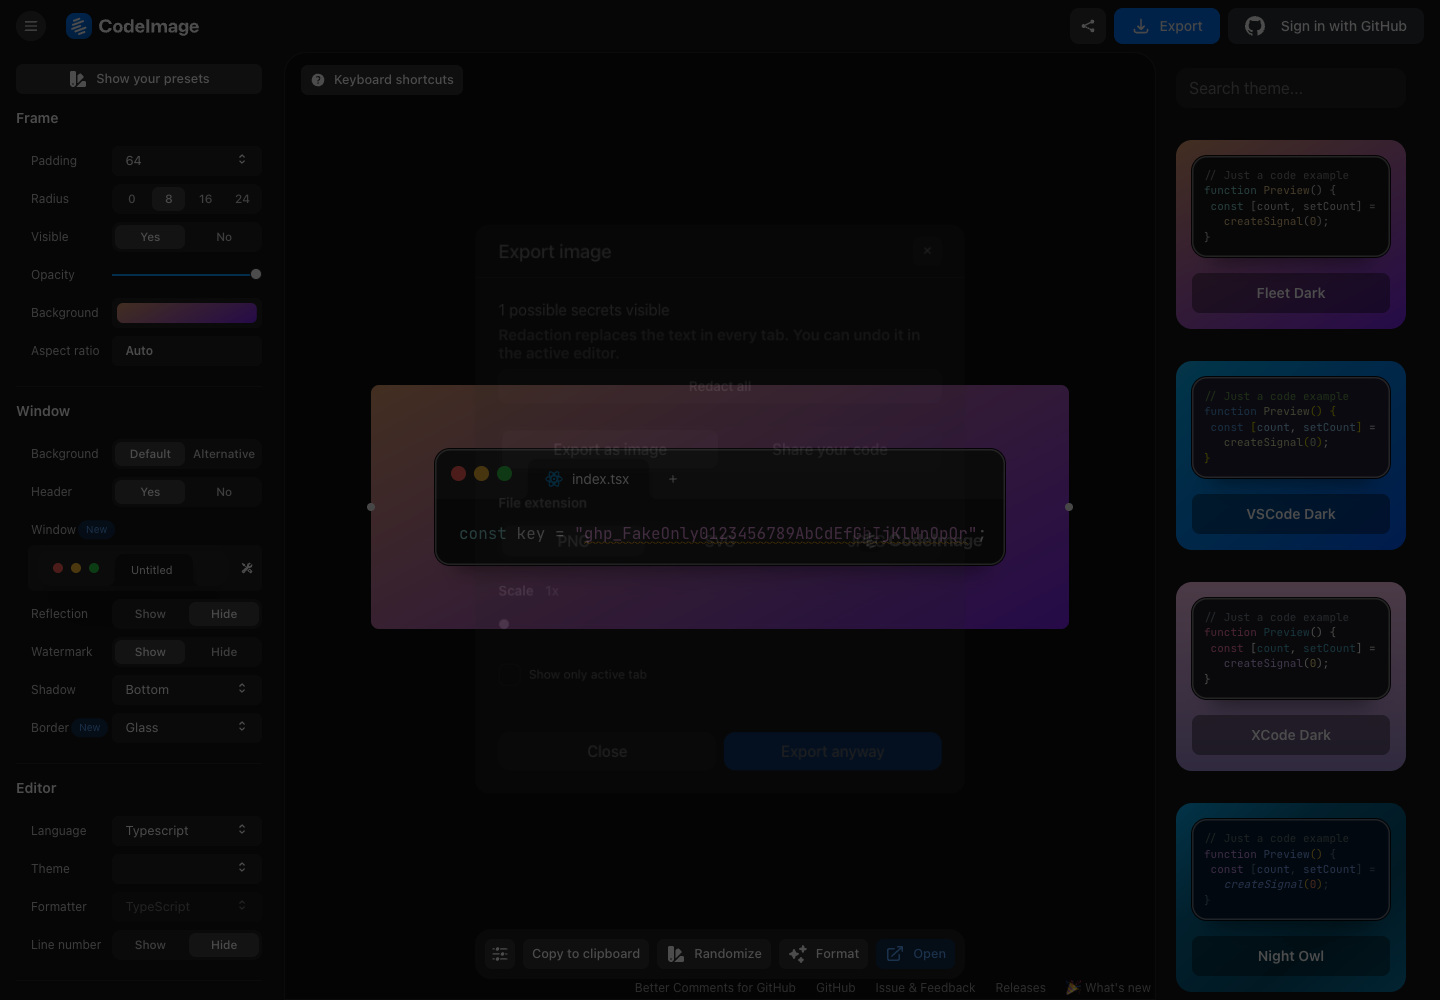
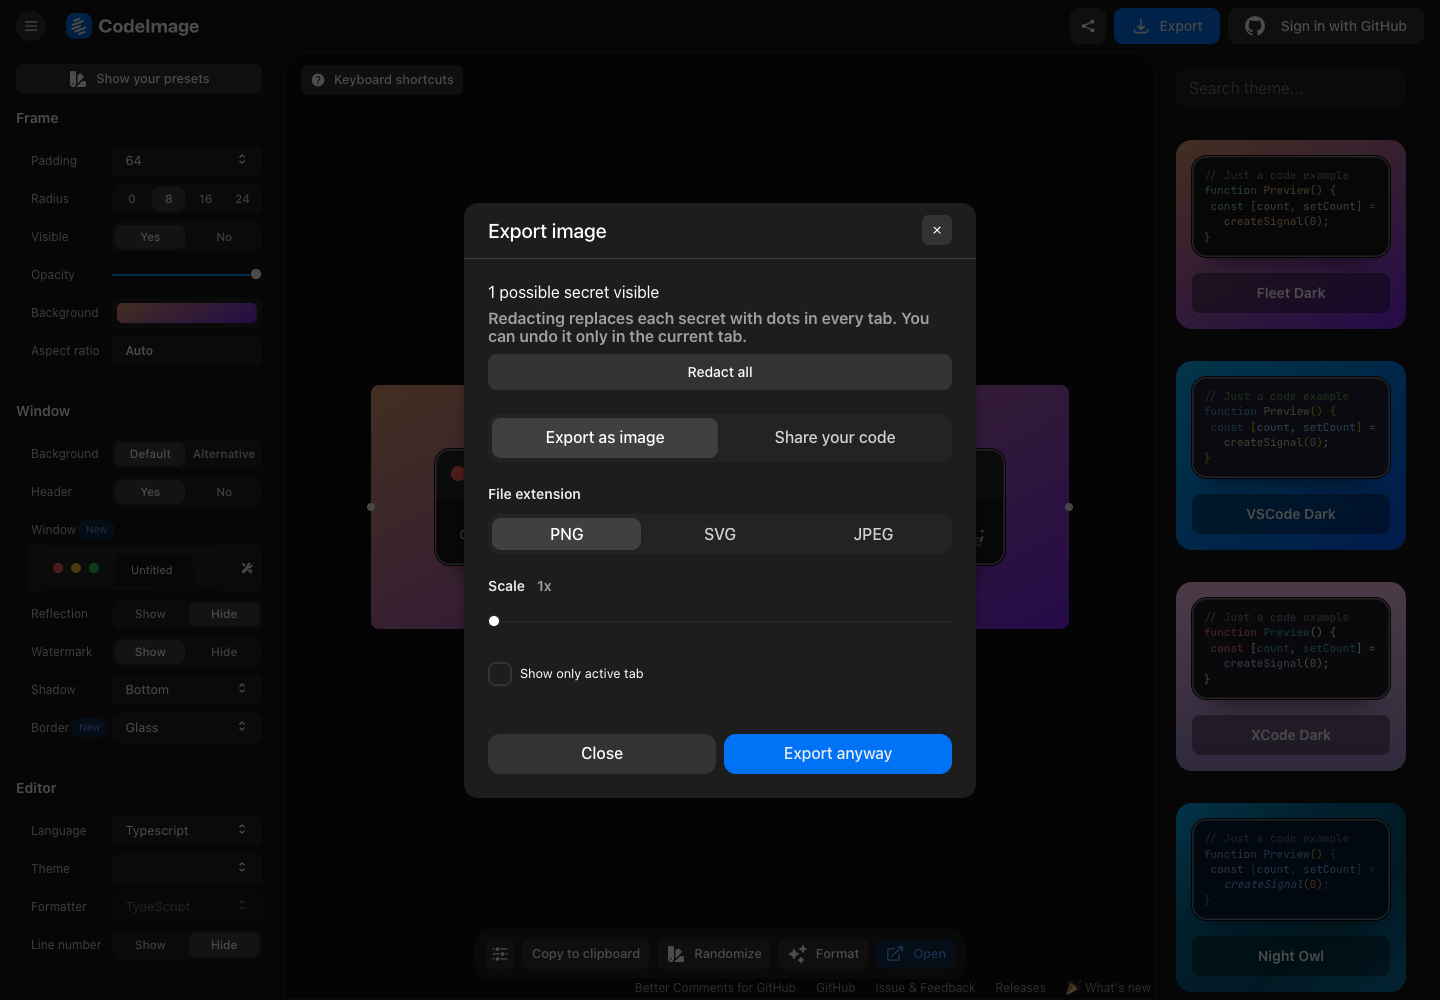
docs: record independent P6 review and reproduced lanes

Changed region(s): [[0.3125, 0.186, 0.6875, 0.806], [0.5312, 0.434, 0.625, 0.465]]

diff --git a/docs/plans/p6-verification.md b/docs/plans/p6-verification.md
@@ -50,3 +50,33 @@ The checked-in worker is MSW 0.47 while the installed client is 2.12.14. A tempo
 Raw screenshots, scripts, logs, PNG comparison, SVG exports, and the decision trail are in `/tmp/swarm-p6/` on the implementation machine.
 
 The coordinator review was applied: no preview-editor change, no worker-file change, and an explicit store-owned editor view passed to Redact all. Independent review of the final PR head remains with the coordinator.
+
+## Independent review at the Opus commits
+
+A second reviewer reran the checks on its own Playwright harness, against a trunk dev server and a head dev server, and changed the detector and the copy.
+
+Fixed:
+
+- `generic-assignment` backtracked catastrophically. A 10,000-character line of `token.` took 36 s and `token-` took 16 s, on the main thread, during linting. The name now starts only at the beginning of its run, and the keyword is checked with a lazy lookahead. The same line now takes under 1 ms. `connection-url-password` was quadratic on dotted runs (91 ms at 10,000 characters) and is now linear. A unit test covers four adversarial lines.
+- Provider rules now keep the Gitleaks entropy minimums and the AWS `EXAMPLE` allowlist, so `ghp_xxxx…`, `sk_test_xxxx…`, and `AKIAIOSFODNN7EXAMPLE` get no hint.
+- Connection passwords that contain `@` were cut at the first `@`, which left the rest visible. Placeholders such as `${DB_PASSWORD}`, `$DB_PASSWORD`, and `<password>` were flagged. Both are fixed.
+- Generic assignments flagged prose (`passwordPlaceholder: "At least 8 characters, one symbol"`), URLs (`tokenEndpoint = "https://…/token"`), templates (`{{ csrf_token() }}`), and unquoted calls (`token = get_token_from_keychain()`). These are now skipped. A UUID or SHA assigned to a name like `sessionToken` still gets a hint on purpose.
+- The copy read "Looks like a AWS access token", "Sembra un chiave privata", "Parece un clave API", and "1 possible secrets visible". The article now lives in each label, and a singular string handles one secret. The hint now says what redaction does and where undo works.
+
+Reproduced at the Opus head:
+
+| Check | Result |
+| --- | --- |
+| Lane 1 | Trunk and head clean PNG exports are byte-identical, 525 × 244, 0/128,100 changed pixels. No hint. |
+| Lane 2 | The hint reads "Looks like a GitHub token". The dialog shows "1 possible secret visible" and **Export anyway**. After **Redact all**, the editor shows `ghp_` and 36 dots. The PNG is byte-identical to an export of the same bullets typed by hand. |
+| Lane 3 | The redacted SVG (1.66 MB) contains `ghp_` and 36 bullets, with neither the token nor its suffix. |
+| Lane 4 | Ignore hides the hint, nothing is written to storage, and the hint is back after reload. |
+| Lane 5 | One Cmd+Z after Redact restores the token. |
+| Lane 6 | The PEM block is one "Looks like a private key" diagnostic that spans all six lines. |
+| Lane 9 | A UUID, a git SHA, and a lockfile `sha512-` integrity string get no hint and no export warning. |
+| Lane 10 | The PUT sent after Redact contains bullets and no token. localStorage, sessionStorage, and every IndexedDB store hold no token. The reload view did not reproduce: `mocks/persist.ts` writes the mock DB only on BroadcastChannel messages and hydrates on a `load` event that has already fired, so the saved project returns 404 on reload. This is trunk mock behavior. |
+| Two tabs | The warning counts "2 possible secrets visible". **Redact all** masks the inactive tab's connection password, and one Cmd+Z in the current tab restores its token. |
+
+Detector perf, 5 warm-ups and 30 runs: `pnpm --filter=@codeimage/secrets bench` medians were 3.87, 4.32, and 2.62 ms (PR: 4.85 ms). On a mixed 2,000-line file (168,786 bytes, 572 matches) with `.env` lines, URLs, minified code, and lockfile hashes, the original detector had medians of 12.8 and 12.2 ms, and the fixed one 8.0 and 9.1 ms. Both are under the 20 ms limit. The host was loaded, so the maximums (80 to 287 ms) reflect contention.
+
+The review video still shows the earlier copy. The warning screenshot is replaced, and [two-tab warning](media/p6-review-tabs-warning.png) is added.
